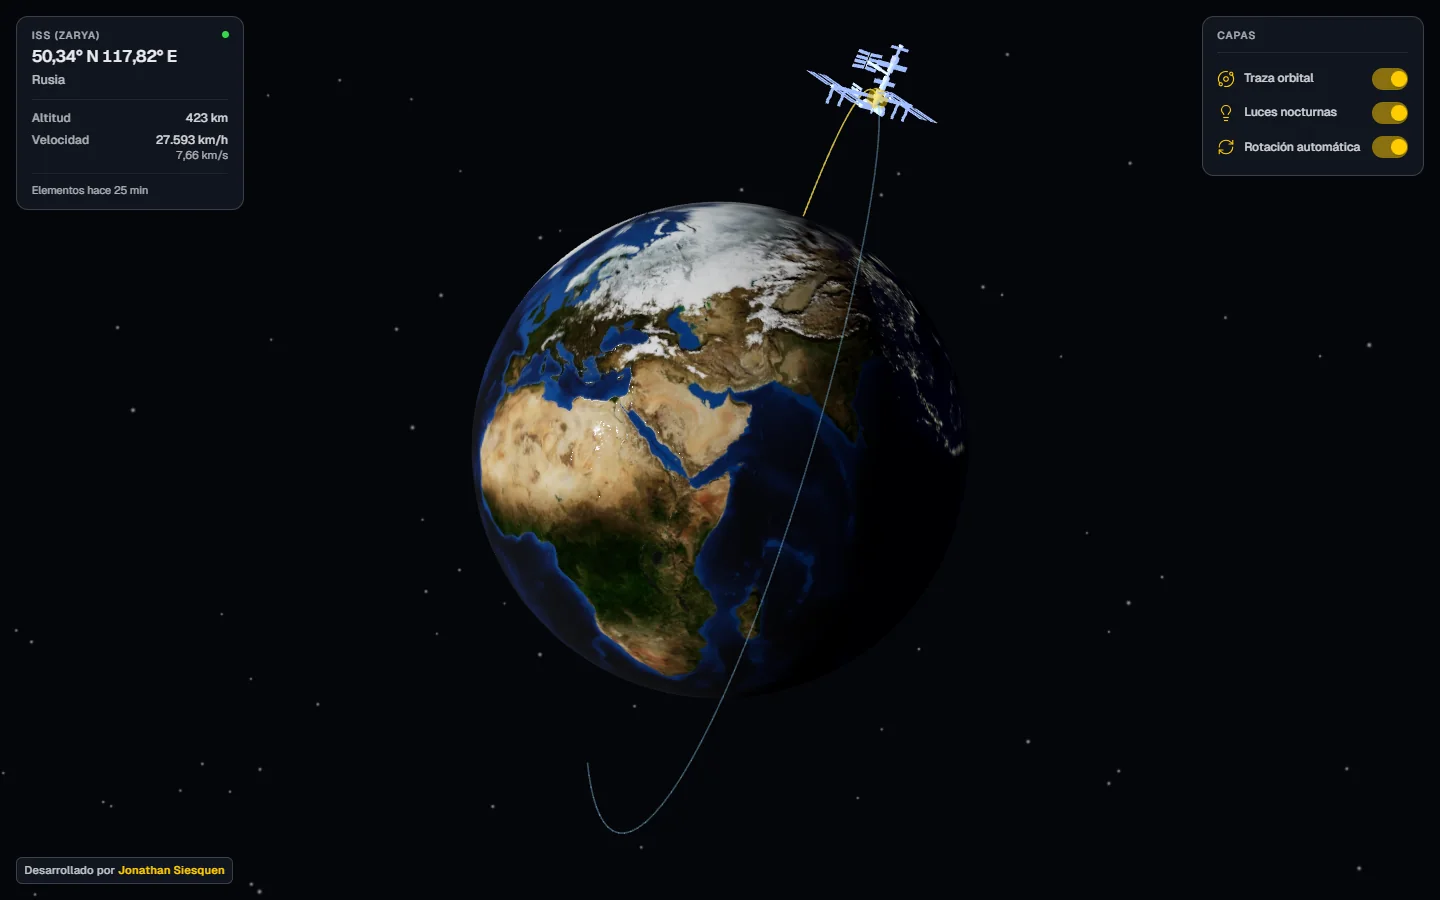
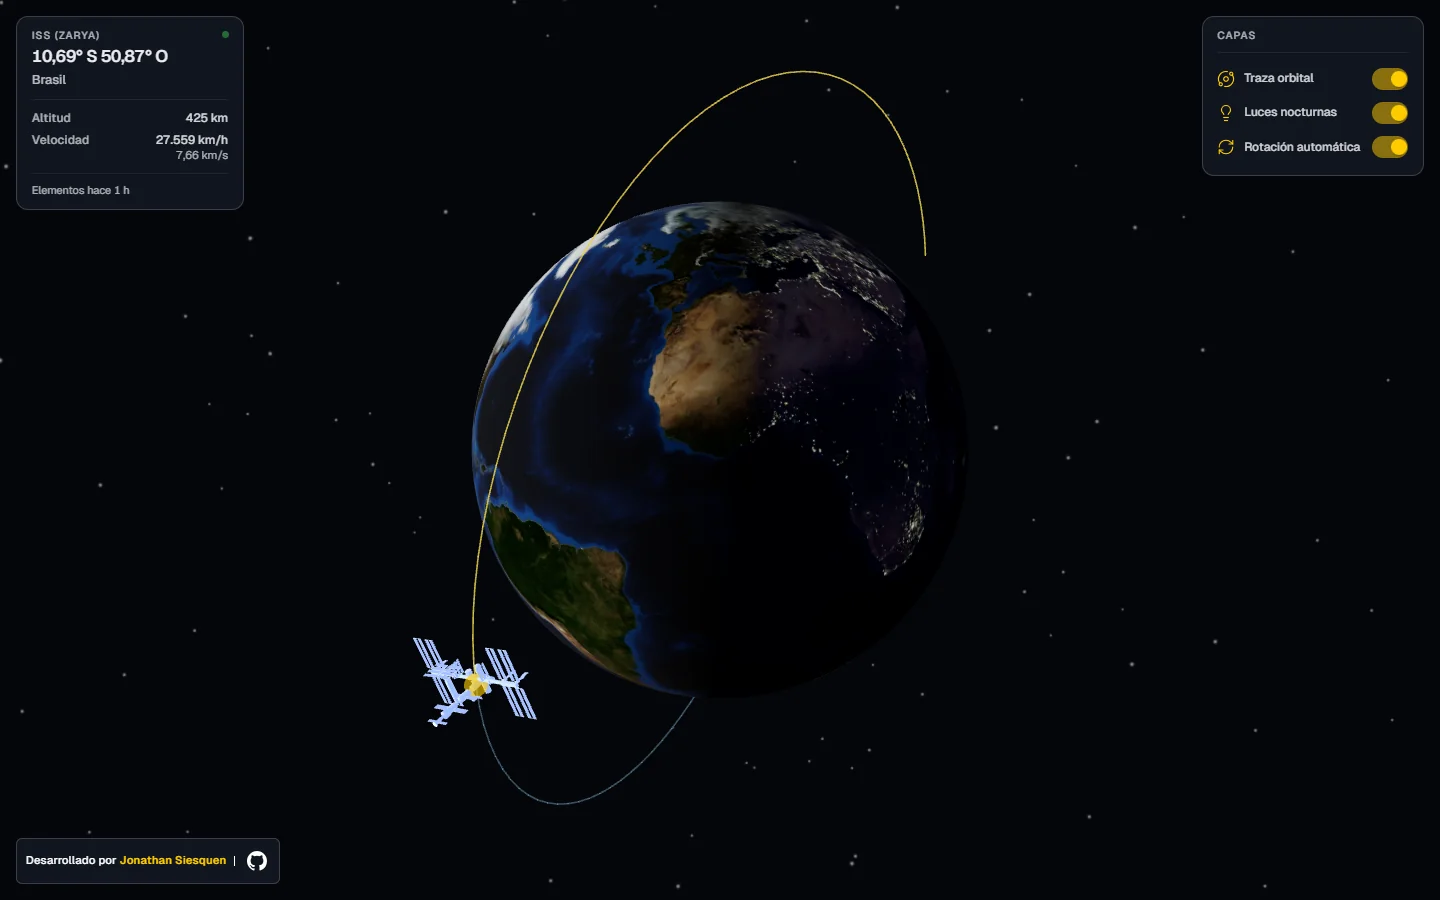
docs: renueva capturas responsive del README (#165)
* docs: renueva capturas responsive del README

* docs: permite adaptar las capturas en ancho estrecho

---------

diff --git a/AGENTS.md b/AGENTS.md
@@ -24,7 +24,7 @@ entre `AGENTS.md` y `CLAUDE.md`.
 
 ## Estado
 
-**78 issues cerradas tras separar autoría y código fuente en el crédito (#155).** El proyecto
+**81 issues cerradas tras renovar las evidencias visuales del README (#160).** El proyecto
 calcula la posición de la ISS con SGP4 a partir de los elementos que sirve su propio BFF, dibuja
 la traza orbital, y el Sol ilumina el globo donde lo hace de verdad.
 
@@ -42,18 +42,20 @@ la traza orbital, y el Sol ilumina el globo donde lo hace de verdad.
 | 5 · Órbita e interfaz | 8/8 | ✅ |
 | 5.5 · Correcciones y realismo | 13/13 | ✅ |
 | 5.6 · Identidad visual | 9/9 | ✅ |
-| 6 · Cierre | 6/7 | |
+| 6 · Cierre | 9/10 | |
 
 **Siguiente:** repaso final y cierre del proyecto (#48).
 
-El README público tiene español como idioma principal y una versión completa en inglés. Presenta
-capturas reales de la aplicación sobre Rusia, Angola y China, una animación optimizada y un diagrama
-de arquitectura; al renovarlo, mantener ambos idiomas alineados y no sustituir esas evidencias por
-mockups que inventen estados del producto.
+El README público tiene español como idioma principal y una versión completa en inglés. Sus cuatro
+evidencias visuales muestran estados reales propagados con SGP4 y países distintos: hero de
+escritorio sobre Brasil, GIF de 12 s a 8 fps sobre España, móvil sobre Kazajistán y tablet sobre
+Venezuela. La ISS permanece visible en todas; móvil y tablet se muestran directamente, sin
+desplegables. Al renovarlas, mantener ambos idiomas alineados y no sustituirlas por mockups que
+inventen estados del producto.
 
 ### Trabajo abierto
 
-- **#48 — auditoría final.** Última issue de la Fase 6; depende de #47 y #155 (ambas cerradas).
+- **#48 — auditoría final.** Última issue de la Fase 6; depende de #47, #155 y #160 (cerradas).
 - **#156 — migración futura al portafolio (fuera del milestone).** No iniciarla hasta que el
   dominio esté adquirido y el portafolio responda por HTTPS. Entonces el enlace del nombre pasa
   a la URL canónica personal y la otra variante del dominio redirige a ella; el enlace de la

diff --git a/README.md b/README.md
@@ -9,7 +9,7 @@
 [![Demo en vivo](https://img.shields.io/badge/ABRIR_DEMO-EN_VIVO-FFCC00?style=for-the-badge&logo=vercel&logoColor=000000)](https://iss-tracker-siesquen.vercel.app)
 [![CI](https://img.shields.io/github/actions/workflow/status/JpSiesquen/iss-tracker-siesquen/ci.yml?branch=main&style=for-the-badge&label=CI)](https://github.com/JpSiesquen/iss-tracker-siesquen/actions/workflows/ci.yml)
 
-![ISS Tracker mostrando la estación sobre Rusia, su traza orbital y telemetría en tiempo real](docs/assets/iss-tracker-hero.webp)
+![ISS Tracker mostrando la estación sobre Brasil, su traza orbital y telemetría en tiempo real](docs/assets/iss-tracker-hero.webp)
 
 </div>
 
@@ -30,9 +30,9 @@ interfaz adaptable diseñada para que el globo siga siendo el protagonista.
 
 <div align="center">
 
-![ISS Tracker en movimiento mientras la estación pasa sobre Angola](docs/assets/iss-tracker-demo.gif)
+![ISS Tracker en movimiento mientras la estación pasa sobre España](docs/assets/iss-tracker-demo.gif)
 
-_Propagación orbital y rotación automática durante un paso sobre Angola._
+_Doce segundos de propagación orbital y rotación automática durante un paso sobre España._
 
 </div>
 
@@ -40,13 +40,14 @@ La aplicación muestra latitud, longitud, ubicación, altitud, velocidad y antig
 elementos orbitales. La traza pasada y futura, las luces nocturnas y la rotación automática pueden
 activarse por separado.
 
-<details>
-<summary><strong>Vista móvil — paso sobre China</strong></summary>
-<br />
+### Una experiencia que se adapta a cada pantalla
+
 <div align="center">
-  <img src="docs/assets/iss-tracker-mobile.webp" width="390" alt="ISS Tracker adaptado a móvil mientras la estación pasa sobre China" />
+  <img src="docs/assets/iss-tracker-mobile.webp" width="300" alt="Vista móvil de ISS Tracker durante un paso sobre Kazajistán" />
+  <img src="docs/assets/iss-tracker-tablet.webp" width="486" alt="Vista tablet de ISS Tracker durante un paso sobre Venezuela" />
+
+_Móvil sobre Kazajistán · Tablet sobre Venezuela_
 </div>
-</details>
 
 ## Ingeniería detrás de la escena
 

diff --git a/README.en.md b/README.en.md
@@ -9,7 +9,7 @@
 [![Live demo](https://img.shields.io/badge/OPEN_DEMO-LIVE-FFCC00?style=for-the-badge&logo=vercel&logoColor=000000)](https://iss-tracker-siesquen.vercel.app)
 [![CI](https://img.shields.io/github/actions/workflow/status/JpSiesquen/iss-tracker-siesquen/ci.yml?branch=main&style=for-the-badge&label=CI)](https://github.com/JpSiesquen/iss-tracker-siesquen/actions/workflows/ci.yml)
 
-![ISS Tracker showing the station above Russia, its ground track and live telemetry](docs/assets/iss-tracker-hero.webp)
+![ISS Tracker showing the station above Brazil, its ground track and live telemetry](docs/assets/iss-tracker-hero.webp)
 
 </div>
 
@@ -30,22 +30,23 @@ a responsive interface designed to keep the globe at center stage.
 
 <div align="center">
 
-![ISS Tracker moving while the station passes over Angola](docs/assets/iss-tracker-demo.gif)
+![ISS Tracker moving while the station passes over Spain](docs/assets/iss-tracker-demo.gif)
 
-_Orbital propagation and automatic rotation during a pass over Angola._
+_Twelve seconds of orbital propagation and automatic rotation during a pass over Spain._
 
 </div>
 
 The application displays latitude, longitude, location, altitude, speed and orbital-element age.
 Past and future ground tracks, city lights and automatic rotation can be toggled independently.
 
-<details>
-<summary><strong>Mobile view — pass over China</strong></summary>
-<br />
+### One experience, shaped for every screen
+
 <div align="center">
-  <img src="docs/assets/iss-tracker-mobile.webp" width="390" alt="ISS Tracker adapted to mobile while the station passes over China" />
+  <img src="docs/assets/iss-tracker-mobile.webp" width="300" alt="Mobile view of ISS Tracker during a pass over Kazakhstan" />
+  <img src="docs/assets/iss-tracker-tablet.webp" width="486" alt="Tablet view of ISS Tracker during a pass over Venezuela" />
+
+_Mobile over Kazakhstan · Tablet over Venezuela_
 </div>
-</details>
 
 ## Engineering behind the scene
 
